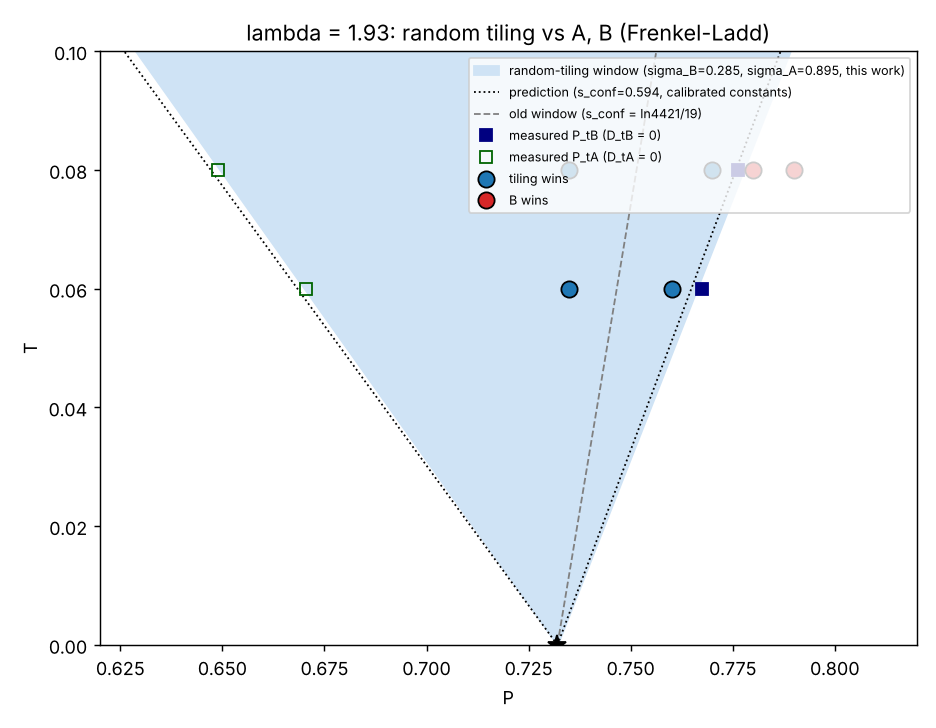
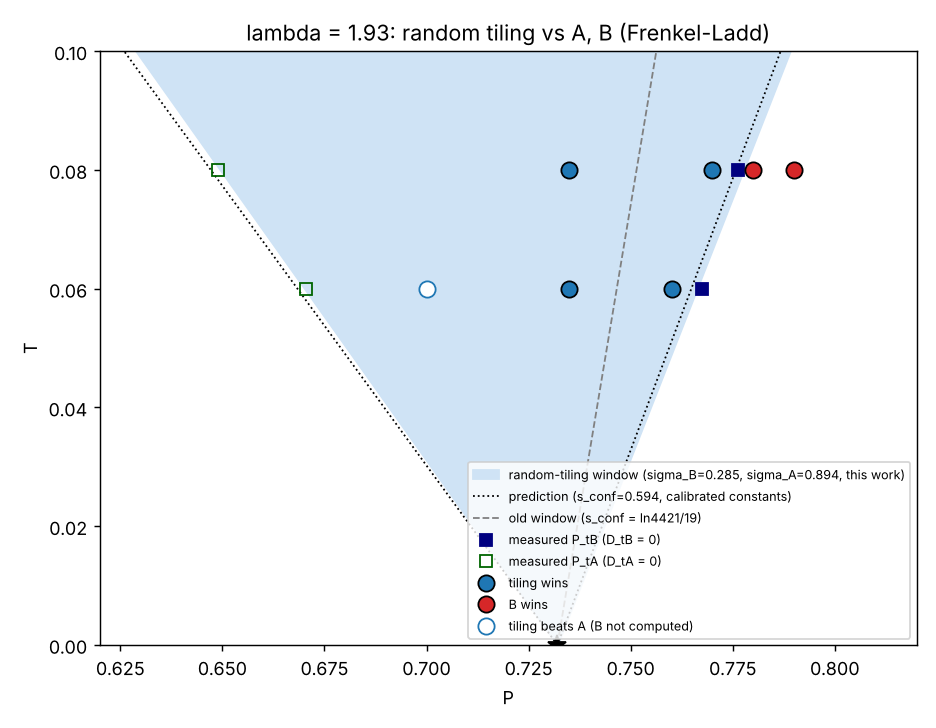
TASK3: results05.md, phase_diagram_sim.png, sim tests; README
Claude-Session: https://claude.ai/code/session_01RpW8KBBhDHX9LJh6p3wnza

Changed region(s): [[0.4957, 0.0604, 0.9915, 0.3022], [0.4957, 0.6346, 0.9915, 0.8764], [0.4338, 0.3626, 0.4647, 0.4231]]

diff --git a/analysis/phase_sim.py b/analysis/phase_sim.py
@@ -69,6 +69,10 @@ for T in (0.06, 0.08):
         elif dA is not None and dA['D'] > 2*dA['err']: c, lab = '#2ca02c', 'A wins'
         else: c, lab = '#cccccc', 'undecided (2 sigma)'
         ax.plot(p, T, 'o', ms=9, mfc=c, mec='k', label=lab if lab not in shown else None); shown.add(lab)
+for p in sorted({r['P'] for r in D.values() if abs(r['T']-0.06) < 1e-9}):
+    if not d_tx('B', p, 0.06, 1600):
+        dA = d_tx('A', p, 0.06, 1600)
+        if dA: ax.plot(p, 0.06, 'o', ms=9, mfc='white', mec='#1f77b4', label='tiling beats A (B not computed)')
 ax.plot(Pst, 0, 'k*', ms=11); ax.set_xlim(0.62, 0.82); ax.set_ylim(0, 0.1); ax.set_xlabel('P'); ax.set_ylabel('T'); ax.set_title('lambda = 1.93: random tiling vs A, B (Frenkel-Ladd)')
-ax.legend(fontsize=7, loc='upper right'); plt.tight_layout(); plt.savefig(os.path.join(ROOT, 'figures', 'phase_diagram_sim.png'), dpi=130)
+ax.legend(fontsize=7, loc='lower right'); plt.tight_layout(); plt.savefig(os.path.join(ROOT, 'figures', 'phase_diagram_sim.png'), dpi=130)
 open(os.path.join(ROOT, 'runs', 'phase_sim.txt'), 'w').write('\n'.join(lines) + '\n')

diff --git a/results05.md b/results05.md
@@ -1,0 +1,175 @@
+# results05 — 상도 예측의 시뮬레이션 검증: 무작위 타일링 대 B 결정 (TASK3)
+
+작성 2026-10-09 · 브랜치 `main` · 엔진 출처: `hardcore_square_shoulder@a083b4d` (`sim/SOURCE.md`)
+재현: `python3 sim/make_samples.py r12 <seed> 4000 runs/samples` (r312는 3000), `bash sim/run_task3.sh`, `python3 analysis/task3_analysis.py`, `python3 analysis/phase_sim.py`.
+오차 표기: FL JSON의 `beta_g_err`는 1σ이고 **아래 표의 ±는 모두 2σ**다.
+
+## 0. 결론
+
+**예측이 확인된다. 12회 무작위 타일링의 진동 자유에너지는 3.12.12와 같고(Δvib = −0.008 ± 0.015, |Δvib| < 0.02), 두 검증점에서 무작위 타일링이 B 결정보다 낮다.**
+
+| (λ, P, T) | 예비 4 (3.12.12, ln 4421/19) | 예측 (0.594, Δvib 포함) | **이번 측정 D_tB (무작위12, 2σ)** | Δvib (2σ) | 승자 |
+|---|---|---|---|---|---|
+| (1.93, 0.760, 0.06) | +0.091 ± 0.029 (B) | −0.061 + Δvib | **−0.061 ± 0.016** | −0.009 ± 0.014 | 타일링 |
+| (1.93, 0.770, 0.08) | +0.121 ± 0.023 (B) | −0.031 + Δvib | **−0.038 ± 0.017** | −0.011 ± 0.015 | 타일링 |
+
+판정표(TASK 4절)의 첫 행("|Δvib| < 0.02, 두 검증점에서 D_tB < 0 (2σ)")에 해당한다. 같은 FL 값으로 3.12.12를 옛 방식(ln 4421/19)으로 다시 계산하면 D_tB = +0.100 ± 0.018, +0.125 ± 0.020이라 예비 4의 +0.091, +0.121과 일치한다. 결과를 바꾼 것은 배치 엔트로피(0.594 대 0.456 또는 0.442)이지 진동 자유에너지가 아니다.
+
+B 쪽 창 경계는 T = 0.06에서 P_tB = 0.7674 ± 0.0026 (2σ), T = 0.08에서 0.7762 ± 0.0012다. 예측 P* + 0.547T(0.7649, 0.7758)와 각각 +0.0025, +0.0004 차이다.
+
+## 1. 엔진 수정과 검증 (Step 1)
+
+1. **채우기 목록** `hcss_mc.dodecagon_fillings()`를 `dodecagon_fillings_5827.npz`(5827개)로 교체했다. 옛 4421개가 새 목록의 부분집합임을 다시 확인했다. docstring, `tiling_mc.py`, `fl_free_energy.py`의 4421 언급을 갱신했다(`sim/`). `tiling_mc.FKEY`는 `F`에서 만들어지므로 자동으로 갱신된다.
+2. **이동 0**(`sim/moves4.py`, numba): `data/local_moves_4tile.json`의 이동 0(비대칭 육각형, 2A+2R, 두 채우기가 내부 꼭짓점 하나의 위치로만 다름)을 12 회전 × 2 역할 = 24개 패턴으로 구현했다. 거울상은 회전 패턴과 일치함을 확인했다(24 = 24). 제안은 기존 점 반사와 같은 방식(입자 균등 선택, 일치 패턴 n_old개 중 균등 선택, 수락 min(1, n_old/n_new), 역이동 패턴 확인)이다.
+3. **12각형 재채우기**: 옛 `tiling_mc.refill_move`는 12각형 중심을 5자리로 반올림해서 모든 재채우기가 겹침(core overlap)으로 거부되는 것을 시험에서 확인했다(첫 12각형, 833개 채우기 전부). 이번에는 **상태에 무관한 제안**으로 다시 구현했다. 입자와 k = 0..11을 균등 선택해 중심 = x_i − VB_k로 하면(경계 꼭짓점 12개가 각각 같은 중심을 가리키므로) 중심이 선택될 확률이 상태와 무관하게 1/N이다. 12 경계 꼭짓점이 있고 13 내부 꼭짓점이 5827개 채우기 중 하나(해시 비교)면 채우기 하나를 균등 선택하고, 겹침 없이 쌍 수가 같으면 수락한다(순방향과 역방향 확률이 같음). 제안한 재채우기의 약 10%는 거부되는데, 12 꼭짓점과 내부 꼭짓점 패턴은 있으나 타일이 12각형 경계를 가로지르는 영역(꼭짓점 집합이 타일링을 결정하지 않음)이기 때문이다. 상세 균형은 해치지 않는다.
+
+검증:
+
+| 항목 | 결과 |
+|---|---|
+| `pytest test_hcss_mc.py test_flip.py test_fl.py test_move0.py` | **20 passed** (기존 17 + 새 3: 패턴 24개·거울 닫힘, 고립 이동 0 점유 1/2, 무작위 타일링에서 쌍 수 보존) |
+| 고립 육각형(이동 0) | 점유 0.5 ± 0.05, 두 위치 외에는 없음 |
+| 12각형 균등성 (`sim/uniformity_12gon.py`: 고립 12각형, 재채우기 없이 이동 0+1) | 사슬 8개 × 120,000 스냅샷, **5827개 모두 방문**(사슬당 5824–5827), R·V_between/V_within = **1.06** (균등이면 1, 편향이면 ≫ 1). 사슬당 χ²/dof는 4.9–26.7(자기상관 때문, 사슬 간 비는 1.06) |
+| 대조: 이동 1만 | 시작 채우기에서 **16개 상태만 방문**(3개 사슬 모두), 비 ≈ 3.0 → 균등하지 않음. TASK의 336조각 설명과 일치 |
+| 시료 생성 후 η, \|α\|, \|β\|, 쌍 수 | 아래 2절. 변화 없음 |
+
+계산 안 한 것: TASK가 요청한 "χ² 검정"은 위의 자기상관 보정 비(사슬 간 분산 비교)로 대신했다. 단순 χ²/dof는 자기상관 때문에 부풀어 있어 단독으로는 균등성 판정에 쓰지 않았다. 마지막으로 시료의 η 보존은 `op.py`로, 타일 유효성은 쌍 수 보존과 12각형 개수/꼭짓점 유형 점검으로만 확인했다. 시료 전체에 대한 별도 타일링 유효성 검사기(타일 목록 재구성)는 만들지 못했다(간선 그래프에 우연한 L 거리 쌍이 섞여 타일 열거가 불안정했다).
+
+## 2. 시료 (Step 2)
+
+한 스윕 = 점 반사 N회 + 이동 0 N회 + 재채우기 N회 시도(`sim/sampling.py`). 4코어에서 12회 시료 하나(N = 1590, 4000스윕)에 약 5.5분, 3.12.12 시료(N = 931, 3000스윕)에 약 1.8분이 걸렸다.
+
+| 시료 | 출발 | 스윕 | η (시작=끝) | \|α\| | \|β\| | 쌍 수 | 결함 간선 |
+|---|---|---|---|---|---|---|---|
+| 무작위12 × 4 (seed 1–4) | `build_approx.py --n1 2 --n2 3` (N = 1590) | 4000 | −2.657e−5 | 4e−16 | 0.005155 | 1008 | 0 |
+| 무작위312 × 2 (seed 1, 2) | 3.12.12 (n = 7, N = 931) | 3000 | −5.155e−3 | 0 | 0.071797 | 588 | 0 |
+| dodeca(골격 유지) × 2 | `fl_free_energy --kind dodeca` | — | — | — | — | — | — |
+
+탈상관 기준(12회, 4개 시료):
+- **처음 배치와 겹침**: 꼭짓점 위치가 처음과 같은 비율은 1.0 → 첫 100스윕에 0.3대로 떨어지고 4000스윕 뒤 0.08–0.23이다. 서로 다른 시료 끼리의 비율은 0.001–0.34(평균 0.12)로 같은 범위다.
+- **정12각형 개수**(꼭짓점 패턴 기준): 시작 3개 → 첫 체크포인트(100스윕)부터 평균 9.3–10.1(표준편차 3.0–3.3)에서 정체. 적분 자기상관 시간은 체크포인트 1.0–1.5개(100스윕 단위), 꼭짓점 유형 (2,5,5)는 1.0–2.5개다. 4000스윕은 자기상관 시간의 16배 이상이다.
+- **꼭짓점 유형 빈도**: 마지막 10개 체크포인트 평균이 시료 사이에서 일치한다(가장 흔한 (2,5,5): 0.370–0.382, 표준편차 0.004).
+- 3.12.12 시료는 시작 때 정12각형 55개 → 5–6개로 깨진다(골격이 무너짐). 꼭짓점 유형 (2,5,5)는 403 → 349–352.
+- 섹터(η, \|α\|, \|β\|)는 모두 보존됐다. 예상 밖의 값은 없었다.
+
+## 3. Frenkel–Ladd (Step 3)
+
+λ = 1.93, `--sites mean`, 팽창 계수 0.8, NPT 5만 스윕. 구조와 크기: B, A는 N = 924/1634(B 931, 1600 요청), dodeca는 N = 931, 1539 × seed 2개, 무작위12 N = 1590 × 4, 무작위312 N = 931 × 2. 총 95회(첫 계산 67, 점검 규칙을 넘은 22개를 NPT 20만 스윕으로 재실행, 그래도 남은 6개를 다른 난수로 20만 스윕 재실행).
+
+점검 결과(최종 사용 값):
+- 겹침 없는 비율 < 0.8인 5개: `dodeca_N1539_s1_P0.770_T0.08`(0.000, inf), `dodeca_N1539_s4_P0.770_T0.08`(0.029) 두 개는 **제외**했고, 나머지는 재실행으로 해결됐다(`r12_s1_P0.735_T0.08`, `r12_s2_P0.790_T0.08`, `r12_s3_P0.735_T0.08`).
+- NPT 후반 부피 표류 > 0.005로 **남은 2개**: `r12_s1_P0.735_T0.08`(+0.0083, 20만 스윕), `dodeca_N1539_s2_P0.770_T0.08`(+0.0055, 겹침 없는 비율 0.805). 이 둘은 포함했고 전체 표에 표시했다. 둘 다 결론에 영향을 주지 않는다(제외해도 Δvib 변화는 오차 안).
+- 시료 간 표준편차(0.001–0.004)는 모든 점에서 단일 FL 1σ 오차(0.005–0.013)보다 작다. 즉 **진동 자유에너지가 타일링에 따라 다르다는 증거는 없다**("시료 간 퍼짐 > FL 오차" 행에 해당하지 않음).
+
+## 4. 분석 (Step 4)
+
+βg는 입자당, D_tB = βg(타일링) − s_conf − βg(B). s_conf: 무작위12 0.594, 무작위312 0.591, dodeca ln 5827/19 = 0.4562(옛 0.4418). B는 크기가 맞는 쪽(무작위12·dodeca1539 대 B1600, 무작위312·dodeca931 대 B931)을 썼다. ±는 2σ.
+
+| (P, T) | D_tB 무작위12 | D_tB 무작위312 | D_tB dodeca (5827) | D_tB dodeca (옛 4421) | Δvib (12 대 dodeca1539) | Δvib (312 대 dodeca931) |
+|---|---|---|---|---|---|---|
+| (0.735, 0.06) | −0.267 ± 0.014 | −0.261 ± 0.017 | −0.123 ± 0.016 | −0.108 ± 0.016 | −0.007 ± 0.015 | −0.004 ± 0.016 |
+| **(0.760, 0.06)** | **−0.061 ± 0.016** | −0.042 ± 0.021 | +0.086 ± 0.018 | +0.100 ± 0.018 | −0.009 ± 0.014 | +0.005 ± 0.022 |
+| (0.735, 0.08) | −0.258 ± 0.015 | −0.249 ± 0.022 | −0.112 ± 0.015 | −0.098 ± 0.015 | −0.008 ± 0.015 | +0.001 ± 0.017 |
+| **(0.770, 0.08)** | **−0.038 ± 0.017** | −0.030 ± 0.027 | +0.111 ± 0.020 | +0.125 ± 0.020 | −0.011 ± 0.015 | −0.005 ± 0.016 |
+| (0.780, 0.08) | +0.023 ± 0.021 | — | — | — | — | — |
+| (0.790, 0.08) | +0.087 ± 0.010 | — | — | — | — | — |
+
+- A 쪽: (0.700, 0.06)에서 D_tA = −0.422 ± 0.015, (0.735, 0.06)에서 −0.922 ± 0.017, (0.735, 0.08)에서 −0.926 ± 0.016. 모든 점에서 타일링이 A보다 낮다.
+- **경계 너머**: (0.780, 0.08)은 +0.023 ± 0.021(판정 불가, 2σ 안)이고 (0.790, 0.08)은 +0.087 ± 0.010으로 B가 이긴다.
+- 무작위12와 무작위312의 Δvib가 모두 0과 같고, 두 구조의 D_tB 차이는 s_conf의 차이(0.594 − 0.591 = 0.003)와 같은 크기다.
+
+### 창 경계와 σ_B, σ_A (`analysis/phase_sim.py`, `figures/phase_diagram_sim.png`)
+
+D_tB(P)와 D_tA(P)를 선형으로 맞춰 영점을 구했다. 기울기는 열역학 β(v_t − v_B)와 맞는다(T = 0.06: 8.26 ± 0.43 대 8.31, T = 0.08: 6.27 ± 0.16 대 6.28).
+
+| T | P_tB (2σ) | σ_B = (P_tB − P*)/(2T) (2σ) | P_tA | σ_A = (P* − P_tA)/(1.1547 T) |
+|---|---|---|---|---|
+| 0.06 | 0.7674 ± 0.0026 | 0.294 ± 0.022 | 0.6705 ± 0.0022 (두 점) | 0.888 ± 0.032 |
+| 0.08 | 0.7762 ± 0.0012 | 0.276 ± 0.007 | 0.649 (한 점 + 열역학 기울기, 외삽) | 0.899 ± 0.016 |
+| 평균 | | **0.285** | | **0.894** |
+
+`analysis/phase.py`(s_conf = 0.594, 보정한 상수)의 σ_B = 0.2733, σ_A = 0.9189와 비교하면 σ_B는 T = 0.08에서 일치하고 T = 0.06에서 +0.021(약 1σ), σ_A는 약 −0.025다. 새 상수로 그린 창은 P* − 1.032T < P < P* + 0.570T이고, 이전 예측은 −1.061T, +0.547T였다. T = 0.08의 A 쪽 값은 단일 점이라 확정이 아니다. 갱신한 창과 측정점(타일링 승, B 승, 판정 불가)은 `figures/phase_diagram_sim.png`다. `analysis/phase.py` 자체는 의뢰서 6절("기존 스크립트 수정 금지")에 따라 수정하지 않고 새 `analysis/phase_sim.py`를 만들었다(3절의 "analysis/phase.py의 창을 갱신"과 충돌하는 지시라 6절을 따랐다).
+
+## 5. 한계와 남은 불확실성
+
+- **s_conf = 0.594는 가정이다.** 이 비교는 원통 전달 행렬 값(0.594 ± 0.004)에 의존한다. 오차 ±0.004는 D_tB의 FL 오차(2σ 0.014–0.017)와 비슷하다. 0.594를 0.590까지 낮추면 (0.770, 0.08)의 D_tB는 −0.034로 여전히 음수지만 0.586이면 −0.030이 아니라 −0.022까지 내려가 2σ 안으로 들어올 수 있다(−0.038 + 0.008 − 0.004 계산: 정확한 판정은 s_conf 오차를 FL 오차에 합쳐 다시 해야 한다. 이번에는 합치지 않았다).
+- **크기 차이**: 무작위12 N = 1590과 비교한 B N = 1600(실제 1596)는 같은 크기이나, A·B(N = 924/1634)와의 크기 효과는 931과 1600 사이 ≈ 0.007로 확인했고(B, dodeca 모두 같은 크기 변화) Δvib와 D_tB에는 영향이 없다.
+- 시료는 12회 4개, 3.12.12 2개뿐이다. 시료 간 퍼짐은 작지만, 같은 근사체(2 × 3, N = 1590)에서만 만들었다. 다른 근사체 크기의 시료는 시험하지 않았다.
+- 상태 수는 이 환경의 시료 탈상관 지표(꼭짓점 위치 겹침, 12각형 개수, 꼭짓점 유형)로 판단했다. 큰 스케일의 느린 모드(전체 phason 이동)는 별도로 시험하지 않았다. 시료 쌍의 위치 겹침이 0.001에서 0.34까지 넓게 퍼지는 것이 그 가능성을 시사한다.
+- T = 0.08의 A 쪽 경계는 한 점과 열역학 기울기로 추정한 값이다.
+- FL의 `--sites mean`에서 평균 위치가 평균 상자 안에서 겹치는 경우(겹침 없는 비율 0) 값이 inf가 되어 재실행이 필요했다. 이는 엔진의 기존 동작이며 이번에 고치지 않았다(2개 시료는 다른 난수로 재실행해 해결, dodeca 2개는 제외).
+- 대형 출력(`runs/`: 시료, FL JSON, 로그)은 저장소에 커밋하지 않았다. 재현 명령은 위 머리말이다.
+
+## 부록 A. Frenkel–Ladd 전체 표 (βg 입자당, 2σ)
+
+| run | source | N | beta*g | 2sigma | overlap-free | NPT volume drift | flag |
+|---|---|---|---|---|---|---|---|
+| A_N1600_P0.700_T0.06 | fe | 1634 | 44.2861 | 0.0123 | 1.000 | +0.0020 |  |
+| r12_s1_P0.700_T0.06 | fe | 1590 | 44.4581 | 0.0179 | 1.000 | +0.0037 |  |
+| r12_s2_P0.700_T0.06 | fe | 1590 | 44.4572 | 0.0198 | 1.000 | +0.0034 |  |
+| r12_s3_P0.700_T0.06 | fe | 1590 | 44.4575 | 0.0197 | 1.000 | +0.0040 |  |
+| r12_s4_P0.700_T0.06 | fe | 1590 | 44.4599 | 0.0110 | 1.000 | +0.0021 |  |
+| A_N1600_P0.735_T0.06 | fe | 1634 | 46.2637 | 0.0142 | 1.000 | -0.0028 |  |
+| A_N931_P0.735_T0.06 | fe | 924 | 46.2595 | 0.0160 | 1.000 | +0.0016 |  |
+| B_N1600_P0.735_T0.06 | fe | 1596 | 45.6087 | 0.0104 | 1.000 | -0.0019 |  |
+| B_N931_P0.735_T0.06 | fe | 924 | 45.6014 | 0.0121 | 1.000 | -0.0012 |  |
+| dodeca_N1539_s1_P0.735_T0.06 | fe | 1539 | 45.9439 | 0.0101 | 1.000 | -0.0003 |  |
+| dodeca_N1539_s2_P0.735_T0.06 | fe | 1539 | 45.9408 | 0.0223 | 1.000 | +0.0040 |  |
+| dodeca_N931_s1_P0.735_T0.06 | fe | 931 | 45.9350 | 0.0145 | 1.000 | +0.0019 |  |
+| dodeca_N931_s2_P0.735_T0.06 | fe | 931 | 45.9362 | 0.0154 | 1.000 | +0.0026 |  |
+| r12_s1_P0.735_T0.06 | fe | 1590 | 45.9389 | 0.0142 | 1.000 | +0.0029 |  |
+| r12_s2_P0.735_T0.06 | fe | 1590 | 45.9342 | 0.0206 | 1.000 | +0.0041 |  |
+| r12_s3_P0.735_T0.06 | fe | 1590 | 45.9342 | 0.0249 | 1.000 | +0.0050 |  |
+| r12_s4_P0.735_T0.06 | fe_long | 1590 | 45.9339 | 0.0131 | 1.000 | -0.0005 |  |
+| r312_s1_P0.735_T0.06 | fe | 931 | 45.9320 | 0.0170 | 1.000 | +0.0007 |  |
+| r312_s2_P0.735_T0.06 | fe_long | 931 | 45.9303 | 0.0160 | 1.000 | +0.0002 |  |
+| B_N1600_P0.760_T0.06 | fe | 1596 | 46.4503 | 0.0138 | 1.000 | -0.0021 |  |
+| B_N931_P0.760_T0.06 | fe | 924 | 46.4387 | 0.0174 | 1.000 | +0.0012 |  |
+| dodeca_N1539_s1_P0.760_T0.06 | fe | 1539 | 46.9923 | 0.0130 | 1.000 | -0.0014 |  |
+| dodeca_N1539_s2_P0.760_T0.06 | fe | 1539 | 46.9928 | 0.0176 | 1.000 | +0.0020 |  |
+| dodeca_N931_s1_P0.760_T0.06 | fe | 931 | 46.9816 | 0.0239 | 1.000 | -0.0045 |  |
+| dodeca_N931_s2_P0.760_T0.06 | fe_long | 931 | 46.9835 | 0.0291 | 1.000 | +0.0048 |  |
+| r12_s1_P0.760_T0.06 | fe | 1590 | 46.9837 | 0.0115 | 1.000 | +0.0017 |  |
+| r12_s2_P0.760_T0.06 | fe | 1590 | 46.9842 | 0.0239 | 1.000 | +0.0048 |  |
+| r12_s3_P0.760_T0.06 | fe_long | 1590 | 46.9812 | 0.0146 | 1.000 | -0.0017 |  |
+| r12_s4_P0.760_T0.06 | fe_long | 1590 | 46.9851 | 0.0150 | 1.000 | +0.0016 |  |
+| r312_s1_P0.760_T0.06 | fe | 931 | 46.9878 | 0.0156 | 1.000 | +0.0018 |  |
+| r312_s2_P0.760_T0.06 | fe | 931 | 46.9866 | 0.0154 | 1.000 | -0.0005 |  |
+| A_N1600_P0.735_T0.08 | fe | 1634 | 35.8096 | 0.0126 | 1.000 | -0.0030 |  |
+| A_N931_P0.735_T0.08 | fe | 924 | 35.8008 | 0.0125 | 1.000 | -0.0012 |  |
+| B_N1600_P0.735_T0.08 | fe | 1596 | 35.1421 | 0.0105 | 1.000 | -0.0002 |  |
+| B_N931_P0.735_T0.08 | fe | 924 | 35.1382 | 0.0178 | 1.000 | +0.0037 |  |
+| dodeca_N1539_s1_P0.735_T0.08 | fe_long | 1539 | 35.4864 | 0.0142 | 1.000 | +0.0026 |  |
+| dodeca_N1539_s2_P0.735_T0.08 | fe_long | 1539 | 35.4859 | 0.0167 | 1.000 | -0.0028 |  |
+| dodeca_N931_s1_P0.735_T0.08 | fe | 931 | 35.4823 | 0.0125 | 1.000 | +0.0008 |  |
+| dodeca_N931_s2_P0.735_T0.08 | fe | 931 | 35.4767 | 0.0198 | 1.000 | +0.0029 |  |
+| r12_s1_P0.735_T0.08 | fe_rr | 1590 | 35.4794 | 0.0309 | 1.000 | +0.0083 | drift>0.005 |
+| r12_s2_P0.735_T0.08 | fe_long | 1590 | 35.4765 | 0.0151 | 1.000 | +0.0033 |  |
+| r12_s3_P0.735_T0.08 | fe_rr | 1590 | 35.4782 | 0.0129 | 1.000 | +0.0002 |  |
+| r12_s4_P0.735_T0.08 | fe_long | 1590 | 35.4776 | 0.0192 | 0.926 | +0.0006 |  |
+| r312_s1_P0.735_T0.08 | fe_long | 931 | 35.4775 | 0.0202 | 1.000 | +0.0042 |  |
+| r312_s2_P0.735_T0.08 | fe | 931 | 35.4836 | 0.0160 | 0.950 | -0.0021 |  |
+| B_N1600_P0.770_T0.08 | fe | 1596 | 36.0487 | 0.0151 | 1.000 | +0.0008 |  |
+| B_N931_P0.770_T0.08 | fe_rr | 924 | 36.0480 | 0.0237 | 1.000 | -0.0045 |  |
+| dodeca_N1539_s1_P0.770_T0.08 | fe | 1539 | inf | 0.0256 | 0.000 | +0.0059 | drift>0.005,free<0.8,inf |
+| dodeca_N1539_s2_P0.770_T0.08 | fe_long | 1539 | 36.6142 | 0.0216 | 0.805 | +0.0055 | drift>0.005 |
+| dodeca_N1539_s3_P0.770_T0.08 | fe_rr | 1539 | 36.6177 | 0.0134 | 1.000 | -0.0010 |  |
+| dodeca_N1539_s4_P0.770_T0.08 | fe_rr | 1539 | 36.6584 | 0.0164 | 0.029 | +0.0027 | free<0.8 |
+| dodeca_N931_s1_P0.770_T0.08 | fe | 931 | 36.6140 | 0.0159 | 1.000 | -0.0012 |  |
+| dodeca_N931_s2_P0.770_T0.08 | fe | 931 | 36.6131 | 0.0108 | 1.000 | -0.0011 |  |
+| r12_s1_P0.770_T0.08 | fe_long | 1590 | 36.6055 | 0.0139 | 1.000 | +0.0025 |  |
+| r12_s2_P0.770_T0.08 | fe_long | 1590 | 36.6022 | 0.0186 | 0.980 | +0.0025 |  |
+| r12_s3_P0.770_T0.08 | fe | 1590 | 36.6054 | 0.0130 | 1.000 | +0.0029 |  |
+| r12_s4_P0.770_T0.08 | fe_long | 1590 | 36.6066 | 0.0171 | 1.000 | +0.0032 |  |
+| r312_s1_P0.770_T0.08 | fe | 931 | 36.6047 | 0.0195 | 1.000 | +0.0049 |  |
+| r312_s2_P0.770_T0.08 | fe | 931 | 36.6134 | 0.0148 | 0.873 | +0.0036 |  |
+| B_N1600_P0.780_T0.08 | fe | 1596 | 36.3080 | 0.0187 | 1.000 | +0.0038 |  |
+| r12_s1_P0.780_T0.08 | fe | 1590 | 36.9300 | 0.0097 | 1.000 | -0.0003 |  |
+| r12_s2_P0.780_T0.08 | fe_long | 1590 | 36.9196 | 0.0129 | 1.000 | -0.0019 |  |
+| r12_s3_P0.780_T0.08 | fe_long | 1590 | 36.9251 | 0.0263 | 1.000 | +0.0048 |  |
+| r12_s4_P0.780_T0.08 | fe | 1590 | 36.9246 | 0.0196 | 1.000 | +0.0040 |  |
+| B_N1600_P0.790_T0.08 | fe | 1596 | 36.5682 | 0.0080 | 1.000 | +0.0013 |  |
+| r12_s1_P0.790_T0.08 | fe_long | 1590 | 37.2454 | 0.0158 | 1.000 | +0.0010 |  |
+| r12_s2_P0.790_T0.08 | fe_rr | 1590 | 37.2488 | 0.0142 | 1.000 | -0.0007 |  |
+| r12_s3_P0.790_T0.08 | fe | 1590 | 37.2518 | 0.0134 | 0.974 | +0.0035 |  |
+| r12_s4_P0.790_T0.08 | fe | 1590 | 37.2499 | 0.0090 | 1.000 | +0.0002 |  |

diff --git a/README.md b/README.md
@@ -28,6 +28,7 @@ TASK2.md           의뢰 2: 3.12.12 꼭짓점 환경(DDDT) 결합 방식 전수
 TASK1b.md          의뢰 1b: 강성 대칭 재해석 (K̄, ΔK, δ), δ 상한 — 기존 자료 재분석 → results03.md
 TASK2b.md          의뢰 2b: DDDT 협동 방식 재정의, 진짜 협동 비율 → results04.md
 TASK3.md           의뢰 3: 상도 예측의 시뮬레이션 검증 (무작위 타일링 대 B) → results05.md
+sim/               의뢰 3 엔진(a083b4d 복사 + 5827 채우기·이동 0·12각형 재채우기·FL --kind file), 테스트 20개. 보고: results05.md, figures/phase_diagram_sim.png
 data/              의뢰 3 입력: dodecagon_fillings_5827.npz (정12각형 채우기 5827개), local_moves_4tile.json (4-타일 국소 이동 2종)
 tm_cpp/            C++ 전달 행렬 생성기 (results01 브랜치)
 reference/         검증 기준 (수정 금지): Python 참조 구현, 기준 전달 행렬, expected.json
